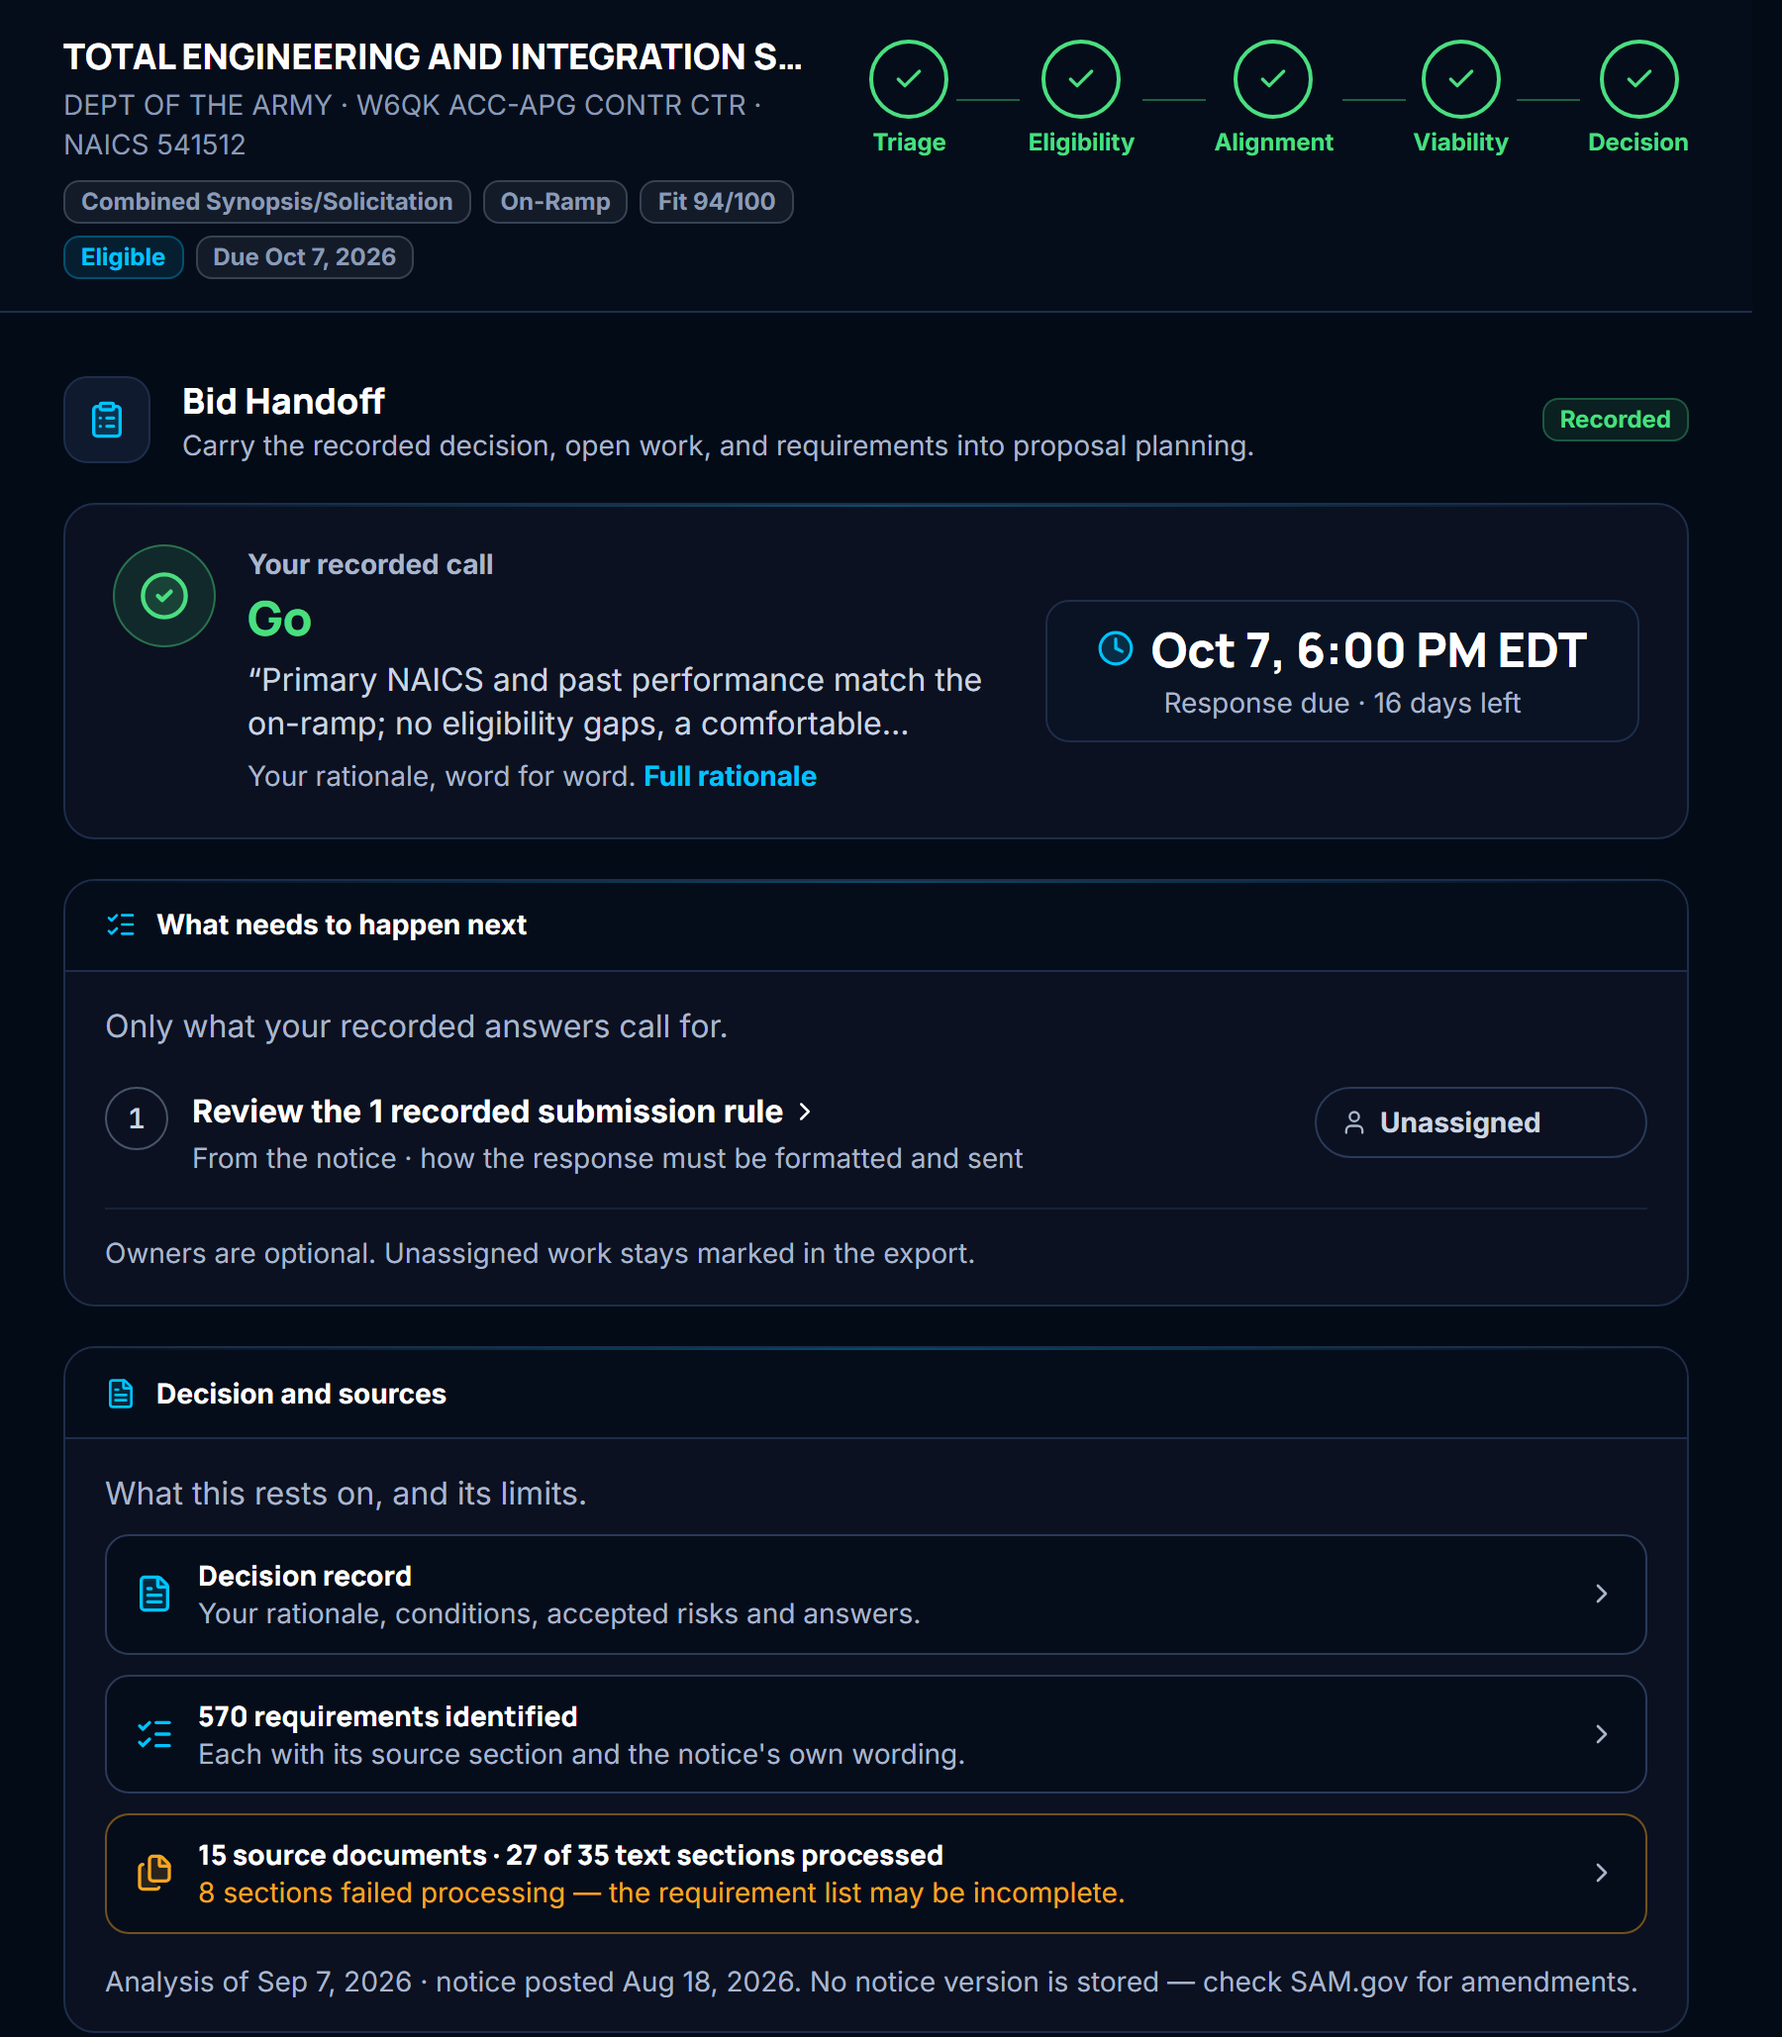
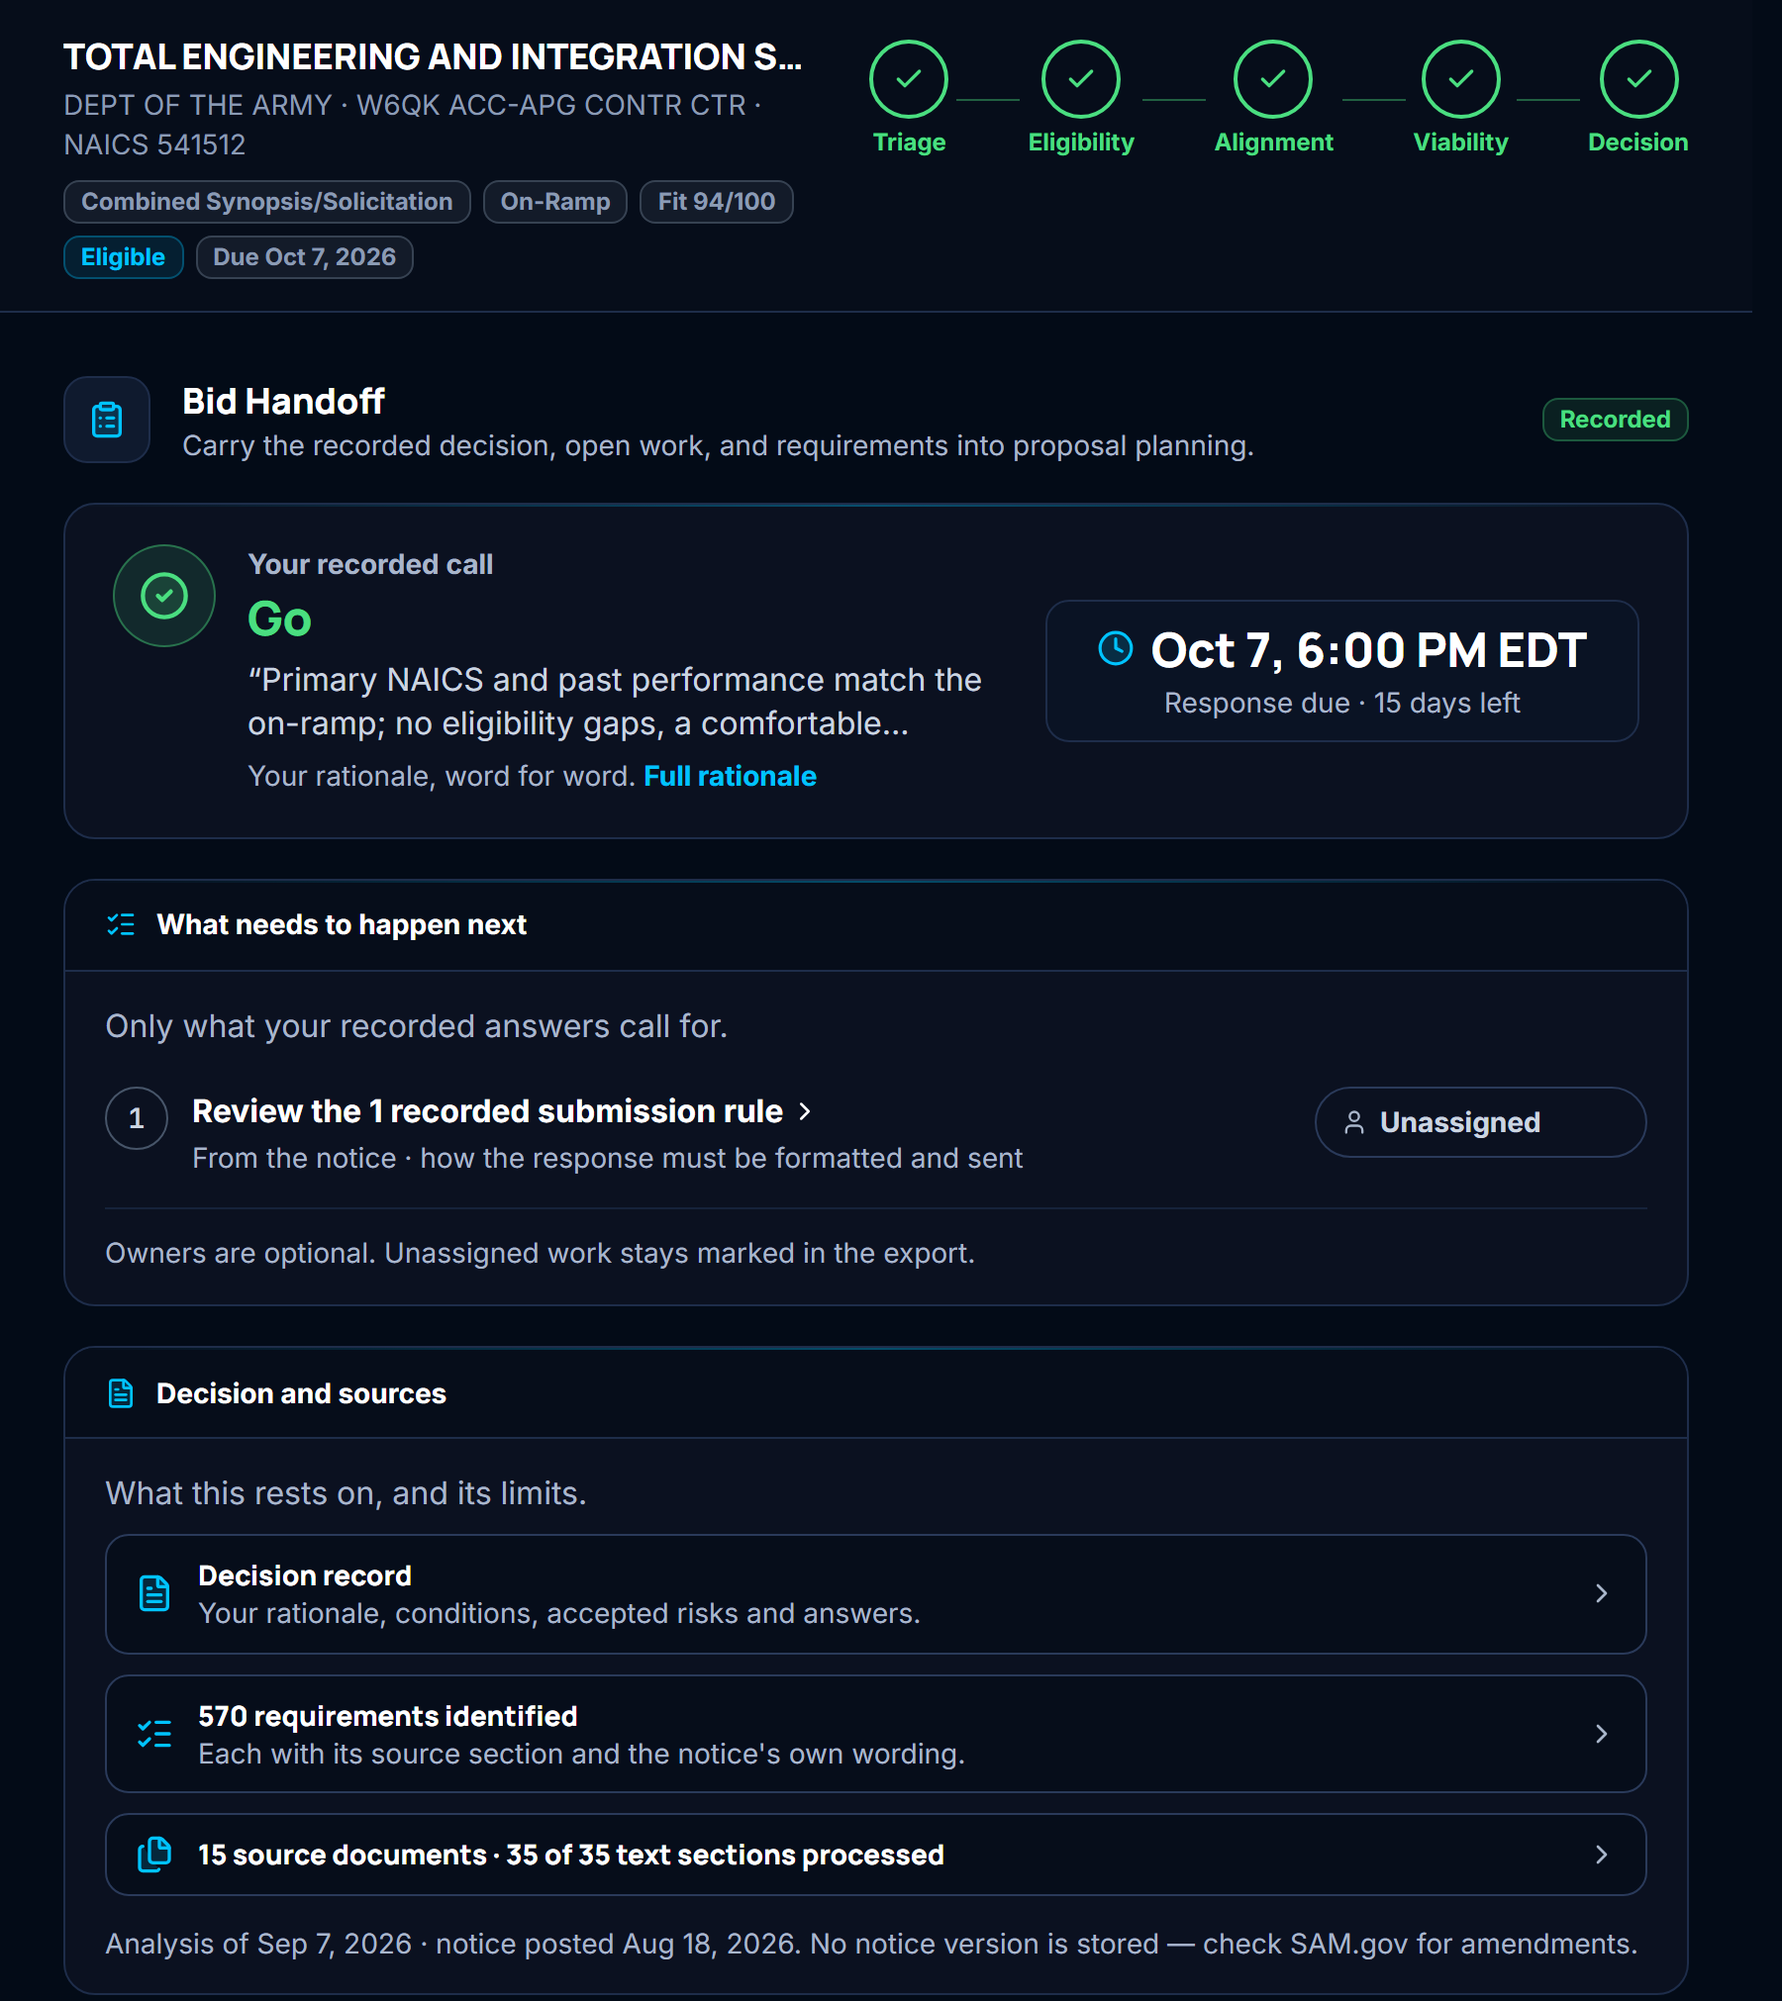
Home: zoom opens at capture size; handoff example shows all sections processed
ZoomImage now enlarges to the capture's 1:1 CSS size (825px / 900px) instead of
stretching to the overlay width, matching the hero card's enlarge; phones still
pan. The Bid Handoff example is re-captured with the sources row sanitized to
35 of 35 text sections processed and no failure line (capture-time DOM edit;
the rig fixture is untouched).

diff --git a/src/components/ZoomImage.tsx b/src/components/ZoomImage.tsx
@@ -8,13 +8,14 @@ import { Maximize2, X } from 'lucide-react';
  * overlay the image keeps its 1:1 CSS width (`zoomWidth`) inside a scrollable
  * panel, so phone viewers can pan instead of squinting at a downscaled shot.
  */
-export default function ZoomImage({ src, alt, width, height, zoomMinWidthClass, label }: {
+export default function ZoomImage({ src, alt, width, height, zoomWidthClass, label }: {
   src: string;
   alt: string;
   width: number;
   height: number;
-  /** Tailwind min-width class for the 1:1 CSS width of the capture, e.g. `min-w-[782px]` for a 1564px-wide 2x shot. */
-  zoomMinWidthClass: string;
+  /** Tailwind width class for the capture's 1:1 CSS size, e.g. `w-[825px]` for a 1650px-wide 2x shot — the
+   *  enlarged view shows the shot at that size (crisp, like the hero card's enlarge), never stretched wider. */
+  zoomWidthClass: string;
   /** Always-visible badge on the frame, e.g. "Example pursuit" — demo data must be labeled on the visual itself. */
   label?: string;
 }) {
@@ -81,9 +82,9 @@ export default function ZoomImage({ src, alt, width, height, zoomMinWidthClass, 
           </button>
           <div
             onClick={(e) => e.stopPropagation()}
-            className="w-full max-w-[1400px] max-h-full overflow-auto rounded-2xl border border-[#1e2d4a] bg-[#0b1120] p-2"
+            className="w-fit max-w-full max-h-full overflow-auto rounded-2xl border border-[#1e2d4a] bg-[#0b1120] p-2"
           >
-            <img src={src} alt="" width={width} height={height} className={`block w-full h-auto rounded-xl ${zoomMinWidthClass}`} />
+            <img src={src} alt="" width={width} height={height} className={`block h-auto max-w-none rounded-xl ${zoomWidthClass}`} />
           </div>
         </div>,
         document.body

diff --git a/src/pages/Home.tsx b/src/pages/Home.tsx
@@ -172,7 +172,7 @@ export default function Home() {
                 alt="HE Pursuit Alignment phase for an example pursuit: a fit score of 94 out of 100, the six scored reasons behind it — NAICS, competitive access, profile keywords, timing, agency, geography — and the strategic call on growth priorities"
                 width={1650}
                 height={1498}
-                zoomMinWidthClass="min-w-[825px]"
+                zoomWidthClass="w-[825px]"
                 label="Example pursuit"
               />
               <p className="mt-3 text-xs text-[#8b9bb4] font-body text-center">The Alignment phase of an example pursuit — score, six reasons, and your strategic call — on a public SAM.gov notice with example answers.</p>
@@ -222,8 +222,8 @@ export default function Home() {
                 src="/decision-example.png"
                 alt="HE Pursuit Bid Handoff screen for an example pursuit: the recorded Go decision with its rationale and response deadline, what needs to happen next, and the decision record with its sources"
                 width={1800}
-                height={2058}
-                zoomMinWidthClass="min-w-[900px]"
+                height={2022}
+                zoomWidthClass="w-[900px]"
                 label="Example pursuit"
               />
               </FlyIn>
